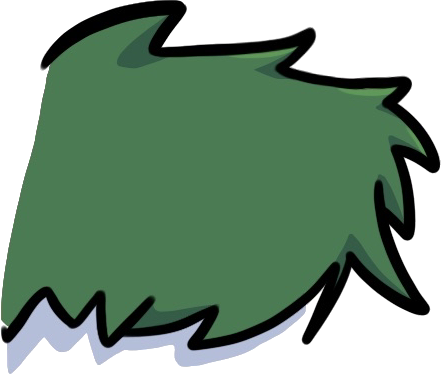
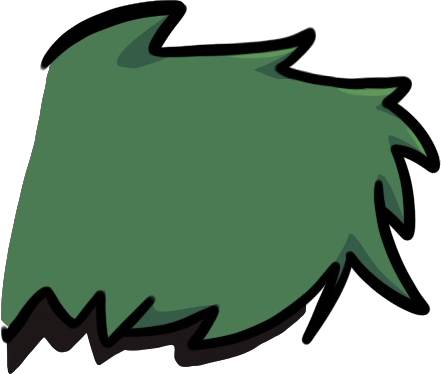
checkpoint, added step up and tweaking grass, edge block and white spots

Changed region(s): [[0.0, 0.7941, 0.7075, 1.0]]

diff --git a/core/src/main/java/io/github/apocRogue/globals/physics/TileCollisionHandler.java b/core/src/main/java/io/github/apocRogue/globals/physics/TileCollisionHandler.java
@@ -4,6 +4,10 @@ import com.badlogic.gdx.math.Rectangle;
 import com.badlogic.gdx.scenes.scene2d.Actor;
 import io.github.apocRogue.map.TileActor;
 import io.github.apocRogue.map.GrassOverlayTile;
+import io.github.apocRogue.map.EdgeTile;
+import io.github.apocRogue.globals.getters.ObstacleGetters;
+import io.github.apocRogue.map.FloorTile;
+
 
 
 public class TileCollisionHandler {
@@ -49,11 +53,27 @@ public class TileCollisionHandler {
 
                     // Resolve collision along that axis.
                     if (minOverlap == overlapLeft) {
-                        // Push actor left.
-                        actor.setX(tileRect.x - actorRect.width);
+                        if (stageActor instanceof EdgeTile || stageActor instanceof FloorTile) {
+                                       // Auto-step: climb up one standard tile
+                                           float step = ((TileActor)stageActor).getHeight();
+                                       actor.setY(actor.getY() + step);
+                                       actor.velocityY = 0f;
+                                       actor.isOnGround = true;
+                                    } else {
+                                        // Regular wall collision
+                                            actor.setX(tileRect.x - actorRect.width);
+                                    }
                     } else if (minOverlap == overlapRight) {
-                        // Push actor right.
-                        actor.setX(tileRect.x + tileRect.width);
+                        if (stageActor instanceof EdgeTile || stageActor instanceof FloorTile) {
+                                       // Auto-step: climb up one standard tile
+                            float step = ((TileActor)stageActor).getHeight();
+                                       actor.setY(actor.getY() + step);
+                                       actor.velocityY = 0f;
+                                       actor.isOnGround = true;
+                                   } else {
+                                       // Regular wall collision
+                                           actor.setX(tileRect.x + tileRect.width);
+                                   }
                     } else if (minOverlap == overlapBottom) {
                         // Push actor down.
                         actor.setY(tileRect.y - actorRect.height);

diff --git a/core/src/main/java/io/github/apocRogue/map/MapManager.java b/core/src/main/java/io/github/apocRogue/map/MapManager.java
@@ -20,8 +20,8 @@ public class MapManager {
 
     //grass shit
     private final boolean grassUseEdgeSize     = false;    // if true, grass dims are based on edge
-    private final float   grassWidthMultiplier  =0.12f;
-    private final float   grassHeightMultiplier = 1.0f;
+    private final float   grassWidthMultiplier  =0.10f;
+    private final float   grassHeightMultiplier = 0.8f;
 
     private int tileWidth = settings.tileWidth;
     private int tileHeight = settings.tileHeight;
@@ -213,8 +213,8 @@ public class MapManager {
 
                 String edgeType = useAltTexture ? "edge2" : "edge1";
                 if (GRASS_ENABLED) {
-                    float grassXOffset = tileWidth * -0.045f;
-                    float grassYOffset = tileHeight * 0.3f;
+                    float grassXOffset = tileWidth * -0.03f;
+                    float grassYOffset = tileHeight * 0.5f;
 
                     float grassW = grassUseEdgeSize
                         ? edgeWidth  * grassWidthMultiplier

diff --git a/core/src/main/java/io/github/apocRogue/actors/playerEntity/PlayerActor.java b/core/src/main/java/io/github/apocRogue/actors/playerEntity/PlayerActor.java
@@ -77,7 +77,6 @@ public class PlayerActor extends PhysicalActor {
 
         // gravity & stepping
         GravitySystem.applyGravityAndPhysics(this, delta, 4.2f);
-        StepUpProcessor.attemptStepUp(this);
 
         // interactions
         handleChestInteraction();

diff --git a/core/src/main/java/io/github/apocRogue/stages/stageBuilder.java b/core/src/main/java/io/github/apocRogue/stages/stageBuilder.java
@@ -7,6 +7,6 @@ import io.github.apocRogue.database.DBManager;
 public class stageBuilder extends Game {
     @Override
     public void create() {
-        setScreen(new LoginScreen(this));
+        setScreen(new MainScreen(this));
     }
 }
